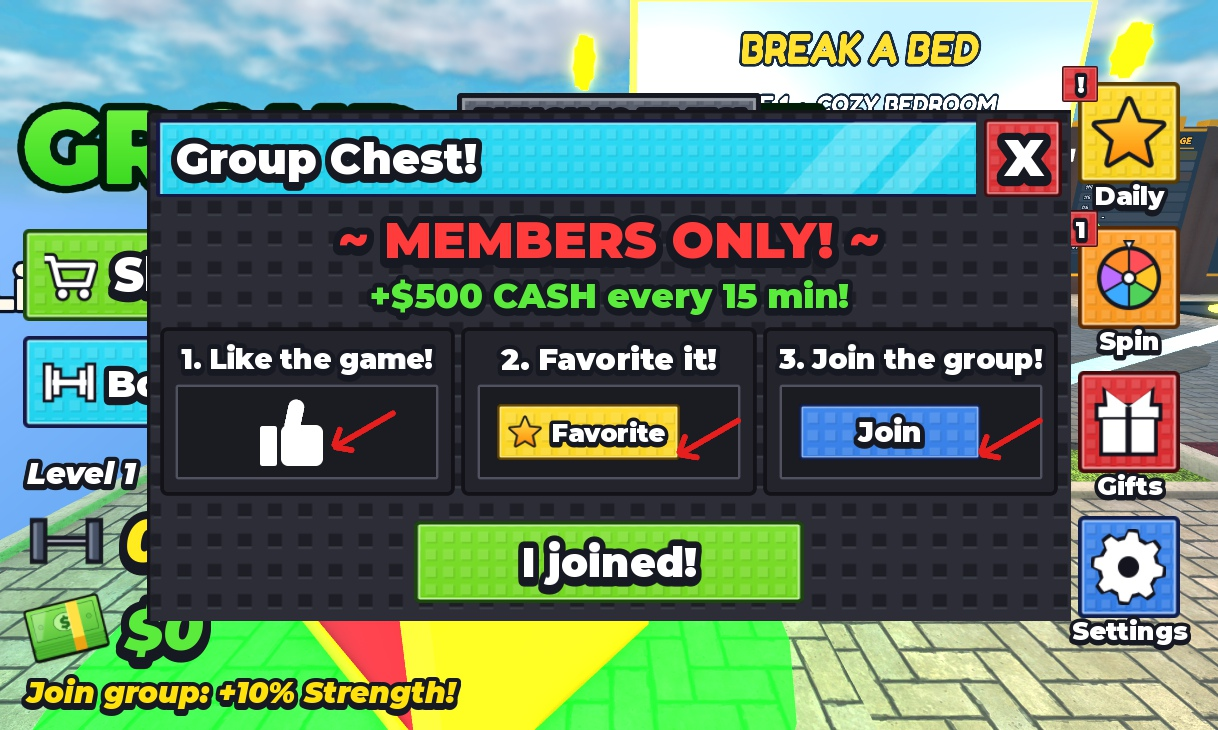
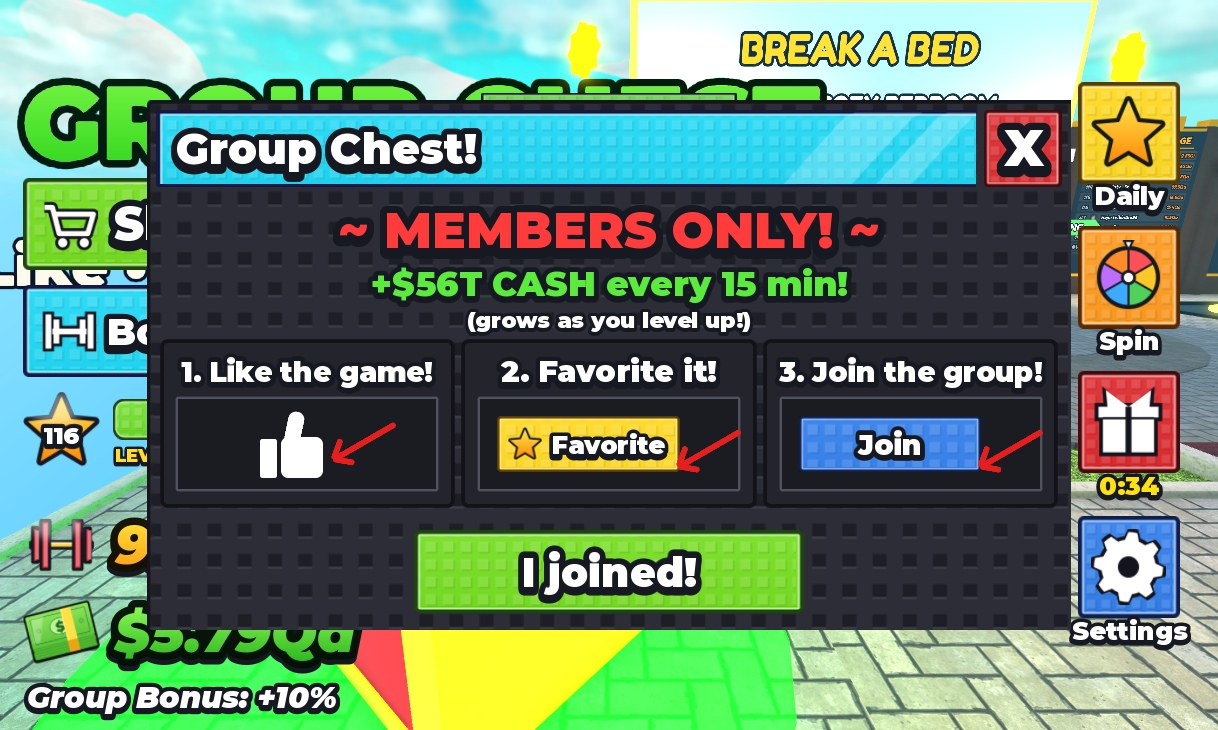
vault backup: 2026-10-12 19:51:08

diff --git a/Break A Bed/Project Overview.md b/Break A Bed/Project Overview.md
@@ -14,7 +14,7 @@ A Roblox game based on Chop A Brick. Train to gain Strength 💪, which raises y
 ## Features
 - **Two areas:** a training area next to spawn and a long fenced path of 25 beds.
 - **Training:** 17 training posts, each on its own colored glowing pad. Stand on a pad and click to punch; each punch gives that post's Strength with "+70 💪" popping out. Locked posts show a 🔒 and their cash price; buying without enough cash shows "Not enough money" in red. The platform floor is dark grey tiles in a grid (`TrainingArea.FloorTiles`).
-- **Level:** comes from Strength. Shown bottom-left ("Level 115" + a slim bar), above big italic Strength (yellow, dumbbell) and Cash (green, money art). On phones they sit under the Shop / Boosts buttons.
+- **Level:** comes from Strength. Shown bottom-left: a star with the level number and a studded green bar, above big italic gradient Strength (yellow, red 3D dumbbell) and Cash (green, money art). On phones they sit under the Shop / Boosts buttons.
 - **Main screen (FINAL STYLE, 2026-10-12):** Shop and Boosts buttons + the Auto Punch switch on the left; Daily, Spin, Gifts and Settings squares with red badges on the right. Nothing moves when idle.
 - **Bed path:** each bed sits in the middle of its own colored floor tile, with white fences down both sides and lamps between tiles. Normal beds sit on cinder blocks. The Air Mattress and Sleeping Bag lie on the tile, and the Bunk Bed has two levels and a ladder.
 - **Harder the further you go:** each bed needs more Strength, has more health and pays more Cash, up to the Infinity Bed with 17 trillion health. Name tags show health and the 💪 needed. Until you're strong enough the prompt says "Need X Strength".
@@ -32,7 +32,7 @@ A Roblox game based on Chop A Brick. Train to gain Strength 💪, which raises y
 - **Robux shop and free rewards:** the Strength tier card in the shop (x2 → x15), passes (Auto Punch, x2 Cash, VIP, Fast Walk, Break Spam), 25 cheap developer products ([[Break A Bed/Shop Plan|Shop Plan]]: x2/x3/x5/x10 boosts, Fast Punch, Server x2 Strength, Cash/Strength/Level/Spin packs, Instant Break, Starter Pack), daily reward, spin wheel, VIP lounge (walking into its door without VIP opens the VIP pass purchase window). Script `Shop` (StarterPlayerScripts) draws it; `VipLounge` (ServerScriptService, run once in Edit mode) built `Workspace.VipArea`. All pass and product ids are set in `GameConfig`.
 - **Boosts:** each level has its own timer; only the highest active Strength and Cash boost counts, and they multiply with passes. Timers show at the top center.
 - **Impulse buys:** "Need more Strength?" at a bed you can't break yet (x3 boost or Instant Break), "Buy again" when a boost runs out, and a one-time Starter Pack pop-up after the first bed break.
-- **Free Rewards** ([[Break A Bed/Free Rewards/Free Rewards|Free Rewards]]): a GROUP CHEST near spawn (`Workspace.FreeChest`; Myanmar Builders Club members only, Cash every 15 min, saved; non-members get a Like / Favorite / Join screen with "I joined!"), a "Watch Ad To Collect" board (rewarded video ads; **on hold**, switched off by `GameConfig.AdBoardEnabled = false` and not on the map) and the Free Gift popup (join the group → Cash + x2 Strength 15 min + Group Reward, once). Script `FreeRewards`.
+- **Free Rewards** ([[Break A Bed/Free Rewards/Free Rewards|Free Rewards]]): a GROUP CHEST near spawn (`Workspace.FreeChest`; Myanmar Builders Club members only, Cash = 40 breaks of the best bed (at least $1,000) every 15 min, saved; non-members get a Like / Favorite / Join screen with "I joined!"), a "Watch Ad To Collect" board (rewarded video ads; **on hold**, switched off by `GameConfig.AdBoardEnabled = false` and not on the map) and the Free Gift popup (join the group → Cash + x2 Strength 15 min + Group Reward, once). Script `FreeRewards`.
 - **Free Gifts** ([[Break A Bed/Playtime Rewards|Playtime Rewards]]): 12 gifts from 1 to 90 minutes each session, the red Gifts square on the right (countdown, badge), SKIP ALL. Script `FreeGifts`.
 - **New Player Guide** ([[Break A Bed/New Player Guide|New Player Guide]]): beam + arrow through punching, the first bed and the Wooden Post, then a "Next bed" bar. Script `Tutorial`.
 - **UI Kit style** ([[Break A Bed/UI Kit/UI Kit|UI Kit]]): sharp image buttons and windows, Montserrat text with shadows, animations and UI sounds everywhere. Scripts `UIKit` and `UIAssets` (image ids).

diff --git a/Break A Bed/2026-10-12.md b/Break A Bed/2026-10-12.md
@@ -74,6 +74,12 @@ Following the "Change" and "Ads: on hold" sections of [[Break A Bed/Free Rewards
 - The server only opens the chest for members of Myanmar Builders Club. Membership is the `InGroup` attribute, checked on join, on "I joined!" and on the Free Gift's Claim!, so joining unlocks both.
 - Tested with a fresh save. Non-member (membership switched off on the server): the join screen opened, no Cash, and a direct claim request was refused. Then "I joined!" (the account really is a member): the screen closed, the chest opened, +$500, "Next chest in 14:54". No errors. Screenshots: ![[Free Rewards/ingame-group-chest.jpg]] ![[Free Rewards/ingame-group-chest-join.jpg]] ![[Free Rewards/ingame-group-chest-opened.jpg]]
 
+## Polished stats, bigger Group Chest #done
+- **Stats** now match `UI Kit/preview-stats.png` ("Stats float with no panel, polished" in [[Break A Bed/UI Kit/UI Kit|UI Kit]]): the shiny star (`icon-star-level`) with the level number on it, the dark studded bar (`stats-bar-track`) with a green studded fill (`stats-bar-fill`, cut to the progress so the studs never stretch) and "2 / 4", a small yellow LEVEL under it; the red 3D dumbbell (`icon-dumbbell-3d`) with a big italic yellow → orange number; `money-small` with a big italic light → dark green number; "Join group: +10% Strength!" under them. One font (Montserrat Heavy / Heavy Italic), icons all the same size (64 px on PC, 46 on phones). The Shop / Boosts column moved a little higher to make room.
+- On phones the stats are smaller and sit right under Shop / Boosts, clear of the thumbstick.
+- **Group Chest reward:** 40 breaks of your best bed, at least $1,000 (was 20 / $500). The Group Chest screen shows your own amount and "(grows as you level up!)" under it.
+- Tested on PC (new player and Level 116) and the iPhone 14 emulator. No errors. Screenshots: ![[UI Kit/ingame-stats-new-player.jpg]] ![[UI Kit/ingame-stats-level116.jpg]] ![[UI Kit/ingame-stats-phone.jpg]] ![[Free Rewards/ingame-group-chest-join.jpg]]
+
 ## Next
 1. **Save the place in Studio (Ctrl+S)**, then publish.
 2. Play the guide once on a fresh account to see the yellow arrow and beam.

diff --git a/Break A Bed/Decisions.md b/Break A Bed/Decisions.md
@@ -106,3 +106,5 @@ Back to [[Break A Bed/Project Overview|Project Overview]].
 - 2026-10-12: the chest is no longer free for everyone. It's a GROUP CHEST: it opens only for Myanmar Builders Club members (checked); like and favorite are asked but can't be checked. #break-a-bed
 - 2026-10-12: rewarded video ads on hold (the game isn't eligible yet). The ad board is switched off (`AdBoardEnabled = false`) until it is. #break-a-bed
 - 2026-10-12: GROUP CHEST built. Non-members who step on the pad get a "Group Chest!" screen ("~ MEMBERS ONLY! ~", the chest's Cash, the same 3 steps as the Free Gift, an "I joined!" button). The group check is shared (`InGroup`, checked on join, on "I joined!" and on the Free Gift's Claim!). The ad board part was removed from the map; its code makes a board above the chest by itself when `AdBoardEnabled` is turned back on. #break-a-bed
+- 2026-10-12: stats rebuilt to match `preview-stats.png` (star level badge, studded bar, 3D dumbbell, money-small, italic gradient numbers, one font). Phones get smaller stat icons so the stats stay above the thumbstick. #break-a-bed
+- 2026-10-12: GROUP CHEST reward raised to 40 breaks of the best bed, at least $1,000 (was 20 / $500). The Group Chest screen adds "(grows as you level up!)". #break-a-bed

diff --git a/Active-Projects.md b/Active-Projects.md
@@ -11,7 +11,7 @@ Night-city driving game: earn money by driving and cutting up traffic, buy cars,
 Game based on Chop A Brick: train to gain Strength and Level, then karate-chop beds along a path for Cash.
 - **Details:** [[Break A Bed/Project Overview]] (all Break A Bed notes go in the `Break A Bed` folder)
 - **Code:** `C:\Users\USER\Documents\Cashgrab` on one PC, folder `BAB` on the other. Studio place "Break A Bed" (placeId 116443177548785).
-- **Now:** FINAL STYLE UI, the GROUP CHEST (members only) and the Free Gift popup are in the game and tested; ads are on hold ([[Break A Bed/2026-10-12|2026-10-12]]). Next: save and publish, then watch Day 1 retention, group joins and sales.
+- **Now:** FINAL STYLE UI with the polished stats, the GROUP CHEST (members only, 40 breaks / at least $1K) and the Free Gift popup are in the game and tested; ads are on hold ([[Break A Bed/2026-10-12|2026-10-12]]). Next: save and publish, then watch Day 1 retention, group joins and sales.
 - **Ads:** released as "[🎉 RELEASE] Break a Bed". 12K Robux spent on ads; earning about 500 Robux a day ([[Break A Bed/Ads|Ads]]).
 - **Next:** save + publish, then [[Break A Bed/Retention Plan|Retention Plan]].
 - **Last updated:** 2026-10-12
